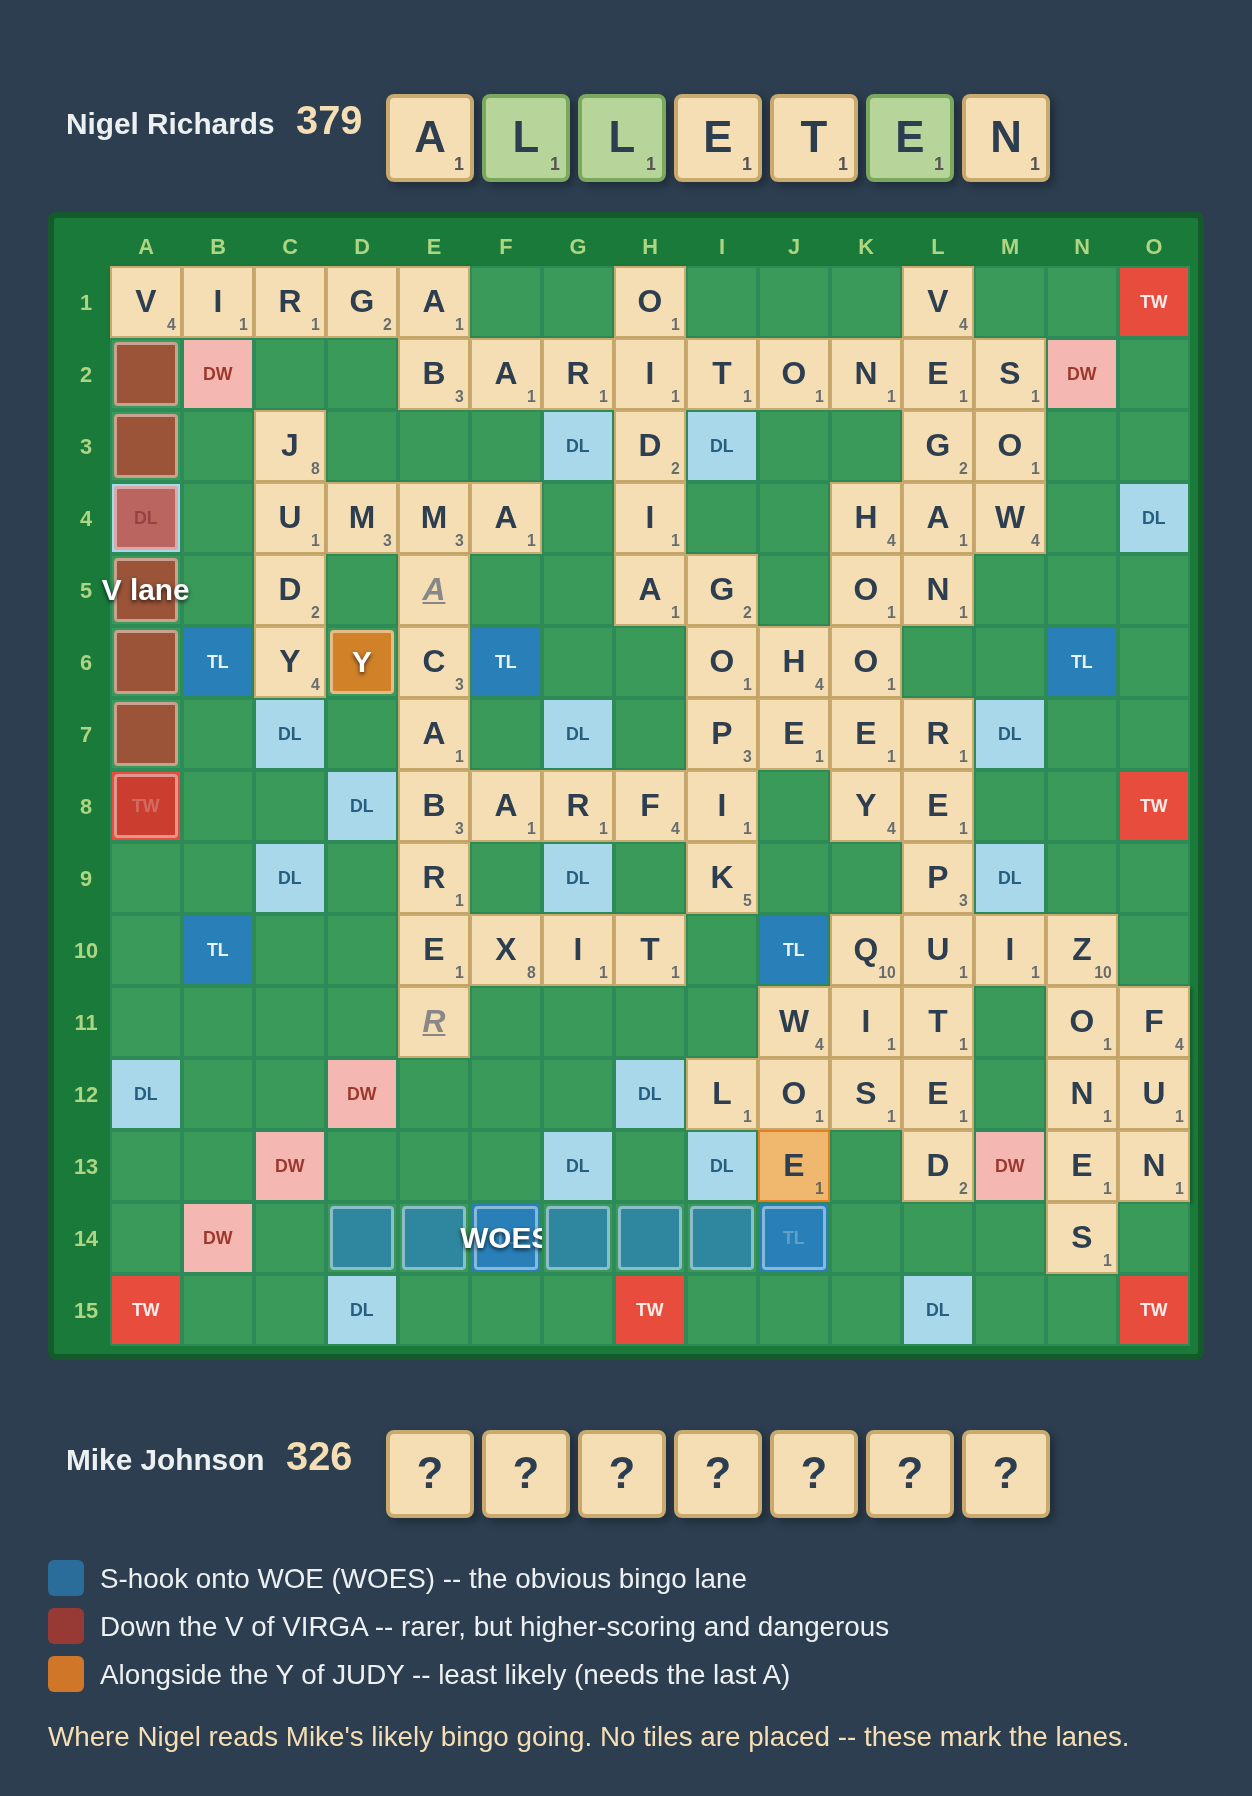
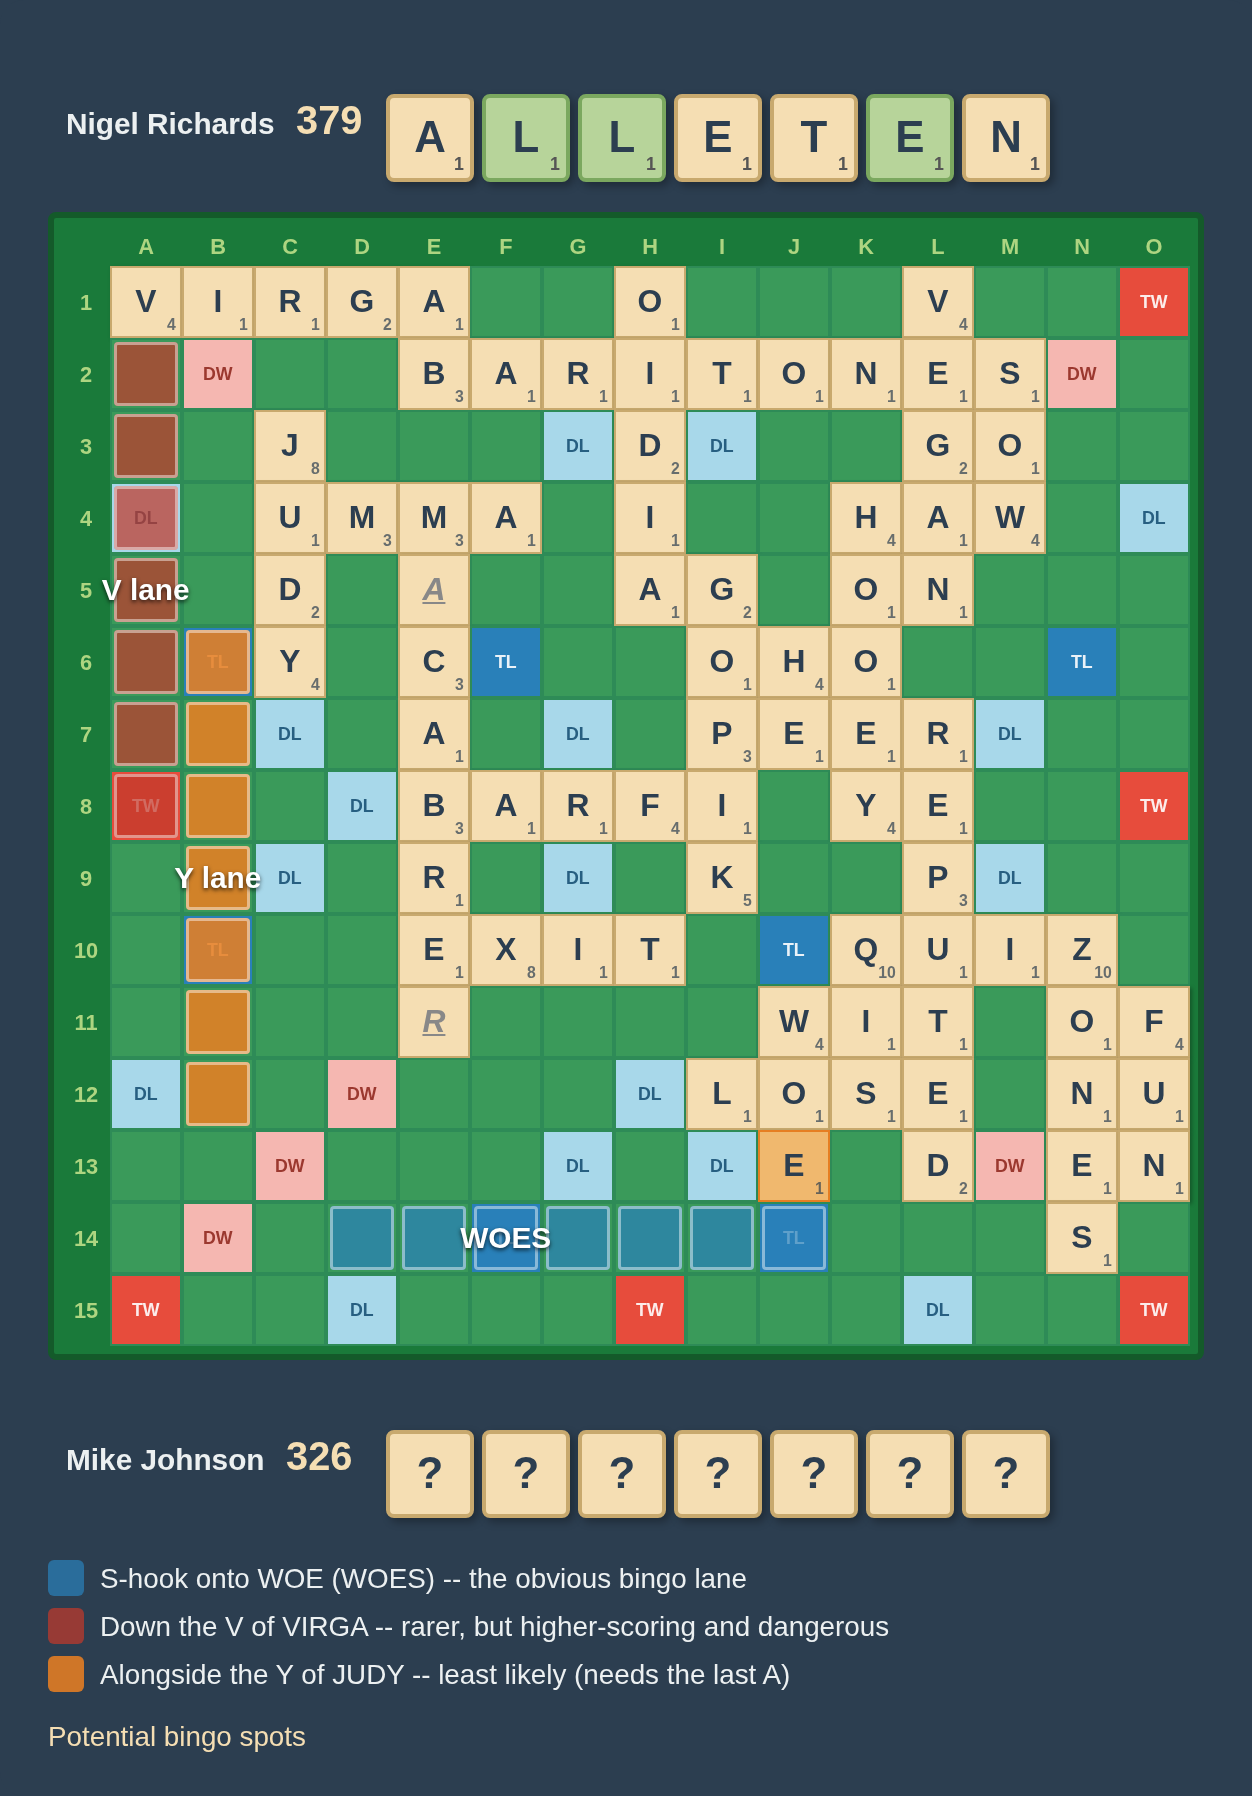
docs(analysis): fix bingo-threats diagram
Route the JUDY-Y lane down its actual column B (B6-B12) instead of a stray
single square, lift labelled highlight cells above their neighbors so a label
(e.g. WOES) no longer gets clipped by an adjacent tinted cell, and simplify the
caption to 'Potential bingo spots'.

diff --git a/web/src/components/Board.tsx b/web/src/components/Board.tsx
@@ -116,8 +116,10 @@ const Board: React.FC<BoardProps> = ({
               if (interactive && !tile) cellClass += ' clickable';
 
               // Highlighted squares lift above later sibling cells so a label
-              // anchored here can overflow across them without being painted over.
+              // anchored here can overflow across them without being painted
+              // over; a labelled cell lifts higher still, above other highlights.
               if (cellHighlights?.[r]?.[c]) cellClass += ' has-highlight';
+              if (cellHighlights?.[r]?.[c]?.label) cellClass += ' has-label';
 
               // Determine what to display in this cell.
               const isExistingTile = !!tile;

diff --git a/web/src/index.css b/web/src/index.css
@@ -181,6 +181,11 @@ h1 {
 .board-cell.has-highlight {
   z-index: 3;
 }
+/* A cell carrying a label lifts above every other highlighted cell, so its
+   label overflows across neighbors (later in DOM) without being clipped. */
+.board-cell.has-label {
+  z-index: 8;
+}
 .board-cell-highlight {
   position: absolute;
   inset: 1px;
